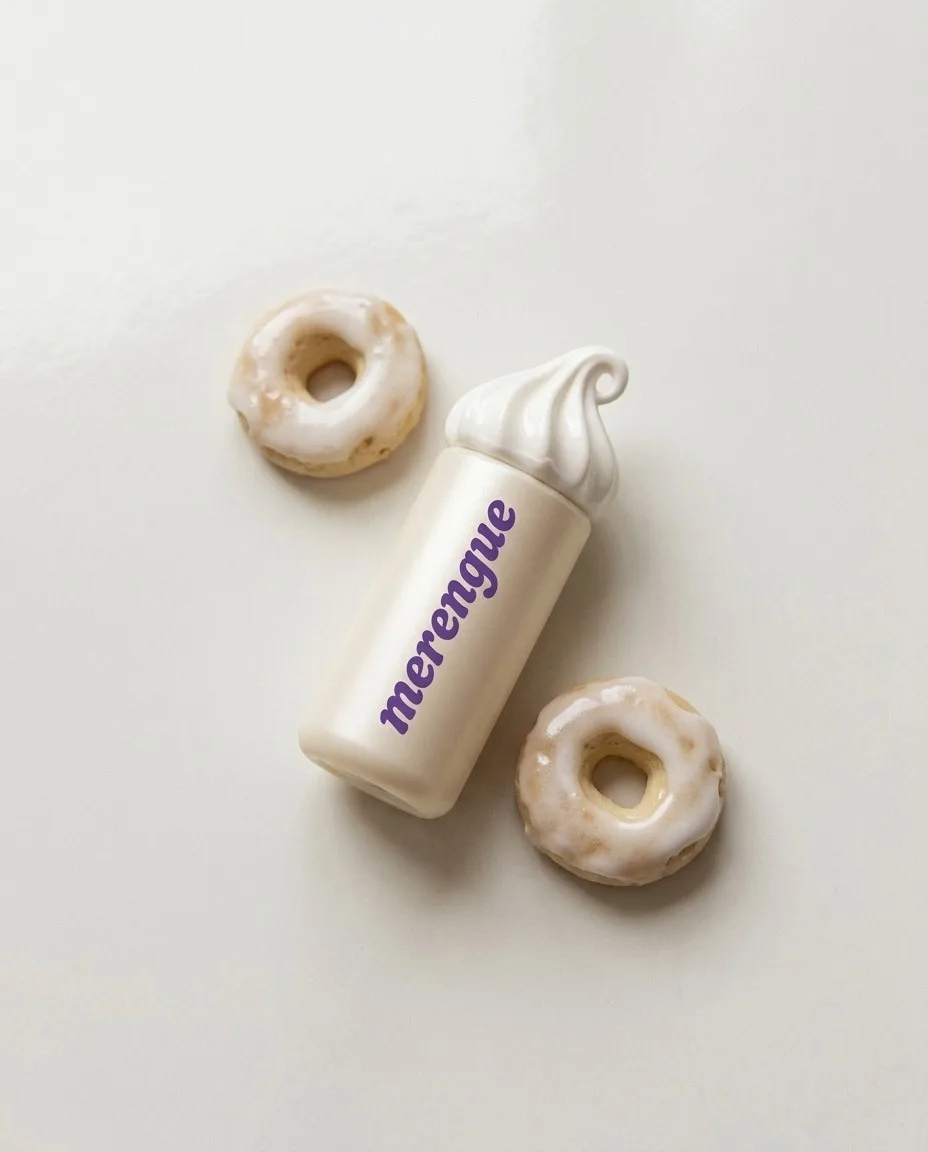
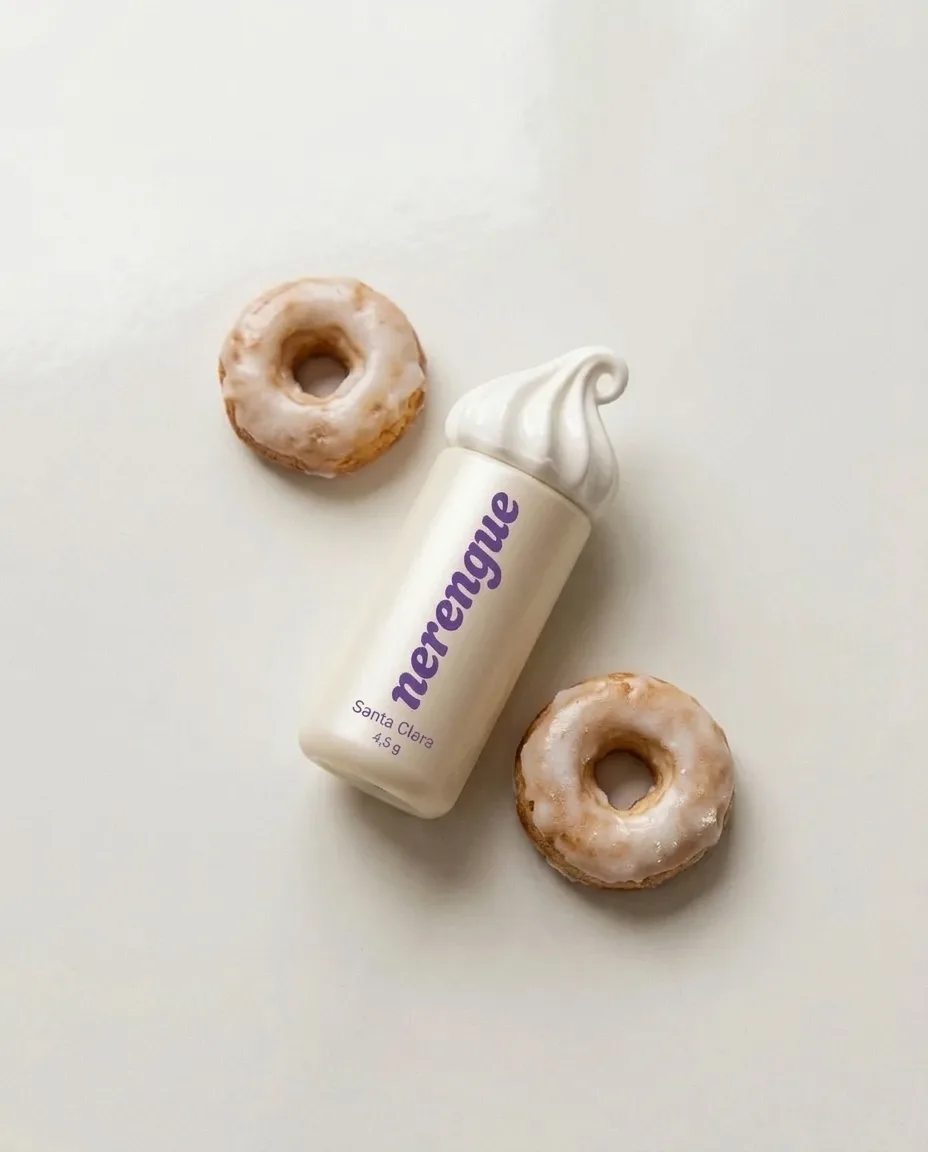
ENTRE: galería de Merengue con Santa Clara y la bolsa

Changed region(s): [[0.5312, 0.5625, 0.8125, 0.8125], [0.2188, 0.2188, 0.4688, 0.4375], [0.375, 0.4062, 0.5625, 0.6562]]

diff --git a/js/proyectos.js b/js/proyectos.js
@@ -106,7 +106,8 @@ const TODOS_LOS_PROYECTOS = [
     imagen: "img/proyectos/merengue-portada.webp",        // los tres bálsamos en el mostrador
     alt: "Los tres bálsamos Merengue, lila, glaseado y amarillo, con tapa de merengue, sobre una blonda en una pastelería",
     galeria: [                                            // fotos del producto
-      { imagen: "img/proyectos/merengue-violeta.webp", alt: "Bálsamo Violeta de Domingo sobre papel de seda lila con caramelos de violeta" },
+      { imagen: "img/proyectos/merengue-clara.webp", alt: "Bálsamo Santa Clara, nacarado, entre dos rosquillas glaseadas" },
+      { imagen: "img/proyectos/merengue-bolsa.webp", alt: "Bolsa de papel lila con el logo de Merengue, atada con cordel rojo y blanco" }, // a la derecha
     ],
     fotoIdea: { imagen: "img/proyectos/merengue-bandeja.webp", alt: "Bandeja de pasteles de domingo con los tres bálsamos entre rosquillas, bartolillos y merengues" }, // a todo el ancho, tras La idea
     web: "merengue/",                                    // su web, hecha en código: sale navegable en la ficha
